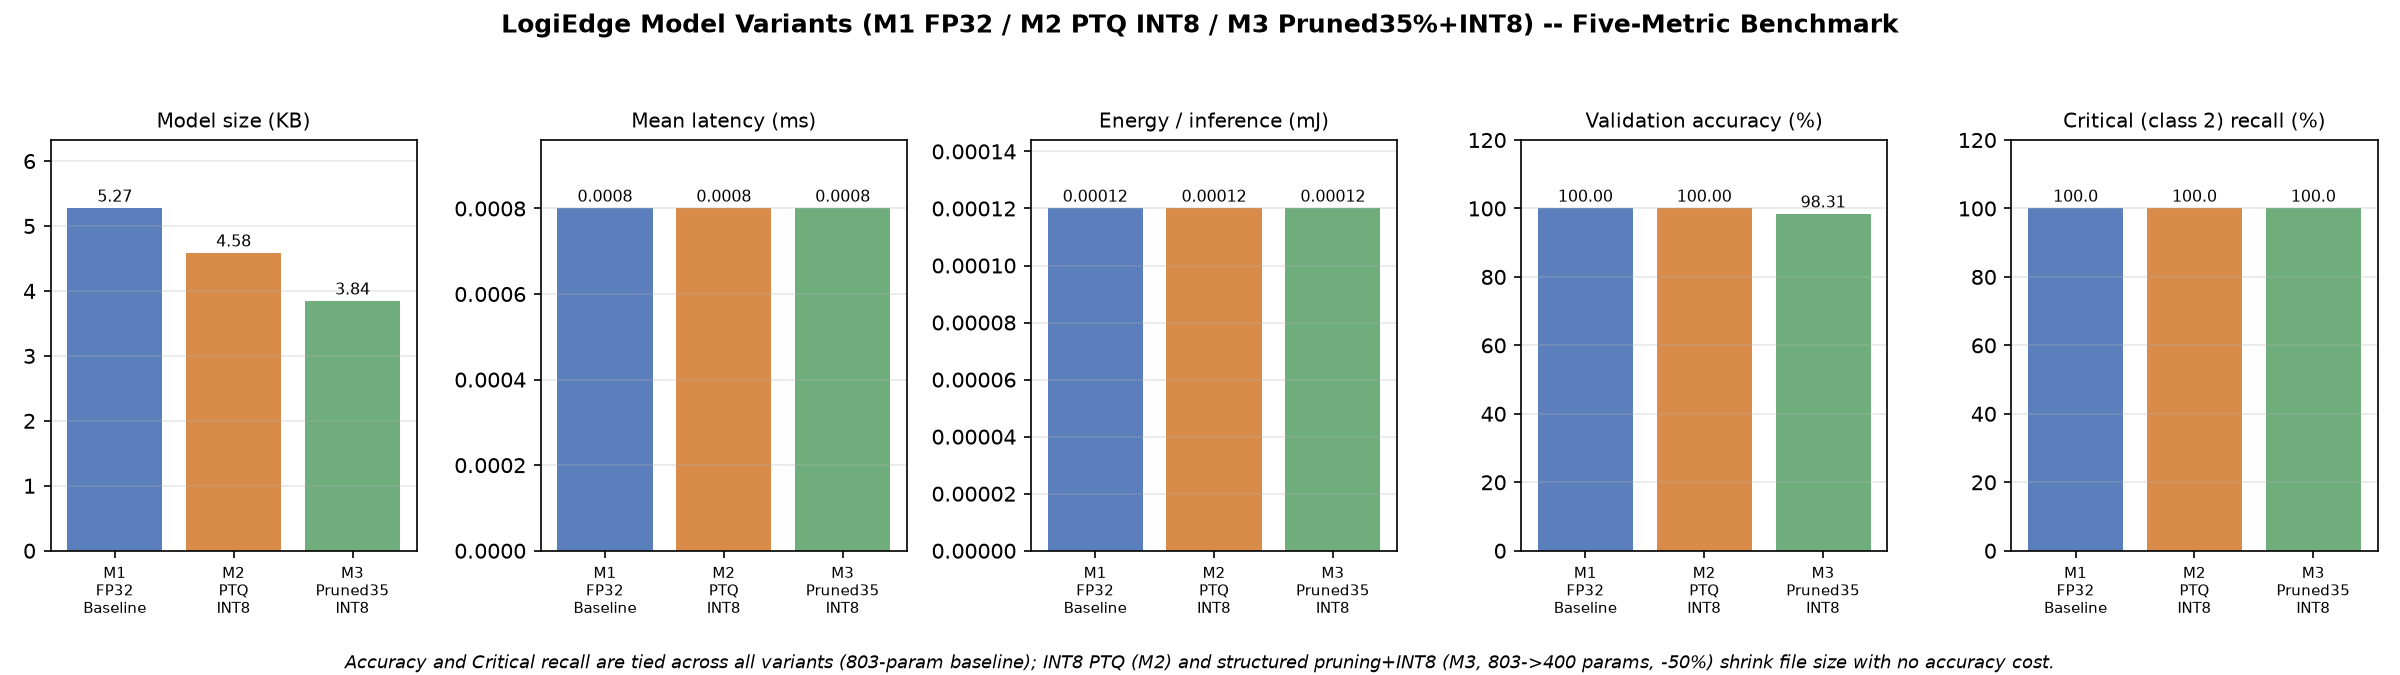
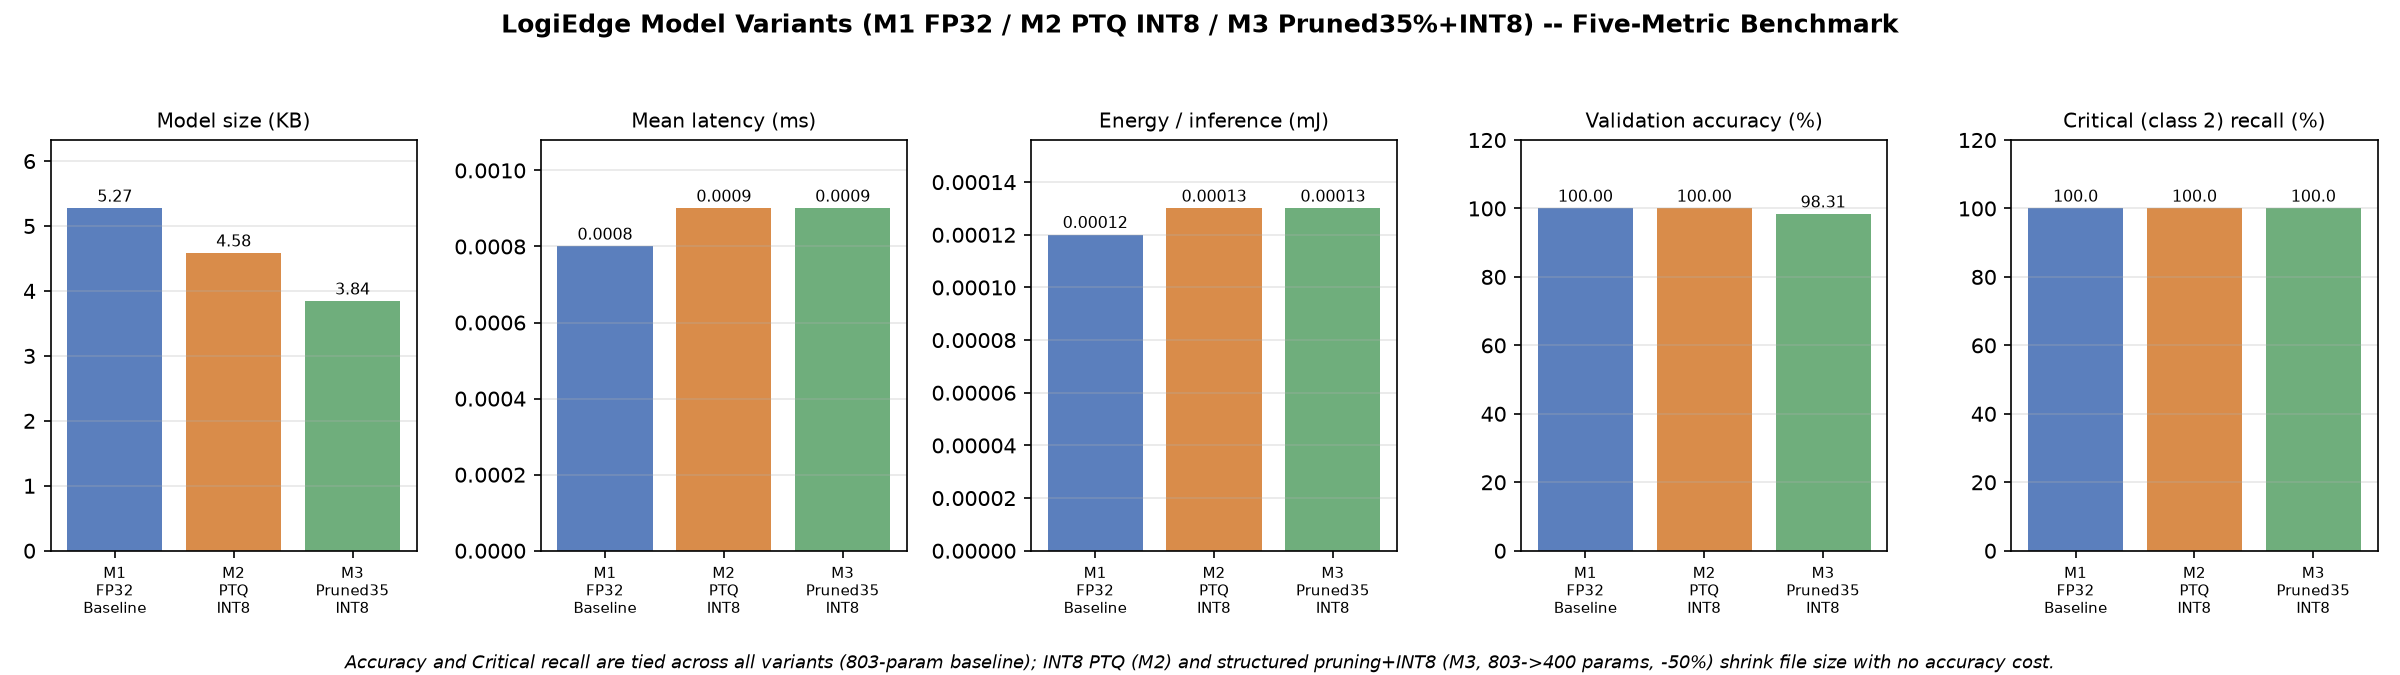
add

diff --git a/README.md b/README.md
@@ -9,7 +9,7 @@ Built for the LogiEdge mini-project (AIML ZG535, Modules 1-6).
 ## Repo layout
 
 ```
-mloe-group9-logibridge-assignment/
+logibridge/
 ├── setup.sh                  Run this first -- venv, deps, fixes machine-specific paths
 ├── clean_pipeline_outputs.sh Wipes generated artifacts for a clean re-run
 ├── scenario_architecture/   Task A1/A2 -- constraint analysis, architecture diagram
@@ -27,7 +27,7 @@ mloe-group9-logibridge-assignment/
 ## Setup
 
 ```bash
-cd mloe-group9-logibridge-assignment
+cd logibridge
 ./setup.sh --with-broker
 ```
 
@@ -46,7 +46,7 @@ If you'd rather do it by hand (or `setup.sh` isn't available on your
 platform), the equivalent manual steps are:
 
 ```bash
-cd mloe-group9-logibridge-assignment
+cd logibridge
 python3.11 -m venv .venv && source .venv/bin/activate
 pip install -r requirements.txt
 
@@ -267,6 +267,45 @@ redeploy:
 docker exec logibridge-inference sha256sum /app/model.tflite
 ```
 
+### Verifying MODEL_PATH hot-swap (no rebuild) and the inference MQTT topic
+
+Task D2 also requires the container to accept `MODEL_PATH` as an env var
+(switching model variants without a rebuild) and to publish results to
+`logibridge/trucks/{truck_id}/inference`. Both already work --
+`inference_service.py` reads `MODEL_PATH` from the environment at
+startup (`inference/inference_service.py`) and publishes to
+`self._topic("inference")`, which resolves to that exact topic. To
+demonstrate both against the **same, already-built image** (no
+`docker build` in between):
+
+```bash
+# terminal 1 -- subscribe to prove the publish target
+mosquitto_sub -h localhost -p 1883 -t 'logibridge/trucks/TRUCK001/inference' -v
+
+# terminal 2 -- run with model variant A, bind-mounted in (not baked into the image)
+docker run --rm \
+  -v "$(pwd)/training/models/model_int8.tflite:/app/models/model_int8.tflite" \
+  -e MODEL_PATH=/app/models/model_int8.tflite \
+  -e MQTT_BROKER=host.docker.internal \
+  -e TRUCK_ID=TRUCK001 \
+  logibridge-inference:latest
+
+# Ctrl+C, then re-run the SAME image with a different variant -- still no rebuild
+docker run --rm \
+  -v "$(pwd)/training/models/model_pruned_int8.tflite:/app/models/model_pruned_int8.tflite" \
+  -e MODEL_PATH=/app/models/model_pruned_int8.tflite \
+  -e MQTT_BROKER=host.docker.internal \
+  -e TRUCK_ID=TRUCK001 \
+  logibridge-inference:latest
+```
+
+Terminal 2's startup line (`[inference] connected, model=/app/models/...`)
+shows the variant switching on each run of the identical image. Terminal
+1 shows inference results landing on the correct topic once the
+simulator (see "Running the pipeline end to end", above) is feeding the
+sensor topics -- without a simulator running, the connect log alone is
+enough to prove `MODEL_PATH` took effect.
+
 ### Optional: watching raw MQTT traffic
 
 MQTT is pub/sub, not a queue -- there's no persisted history to browse,
@@ -474,7 +513,7 @@ shape, and therefore the file size, essentially unchanged).
   Verify you're using the right one:
   ```bash
   ansible-playbook --version | grep "module location"
-  # should print .../mloe-group9-logibridge-assignment/.venv/lib/...,
+  # should print .../logibridge/.venv/lib/...,
   # NOT /opt/anaconda3/... or any other environment
   ```
   `./setup.sh` fixes this every time it's run (regenerates all
